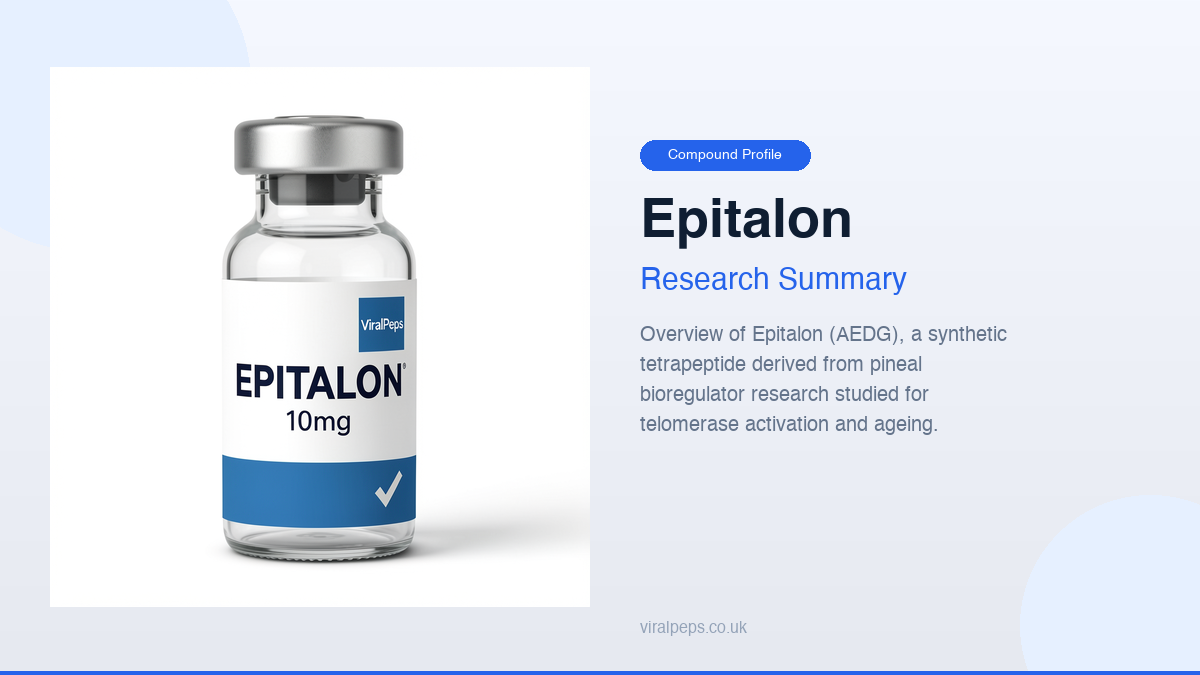
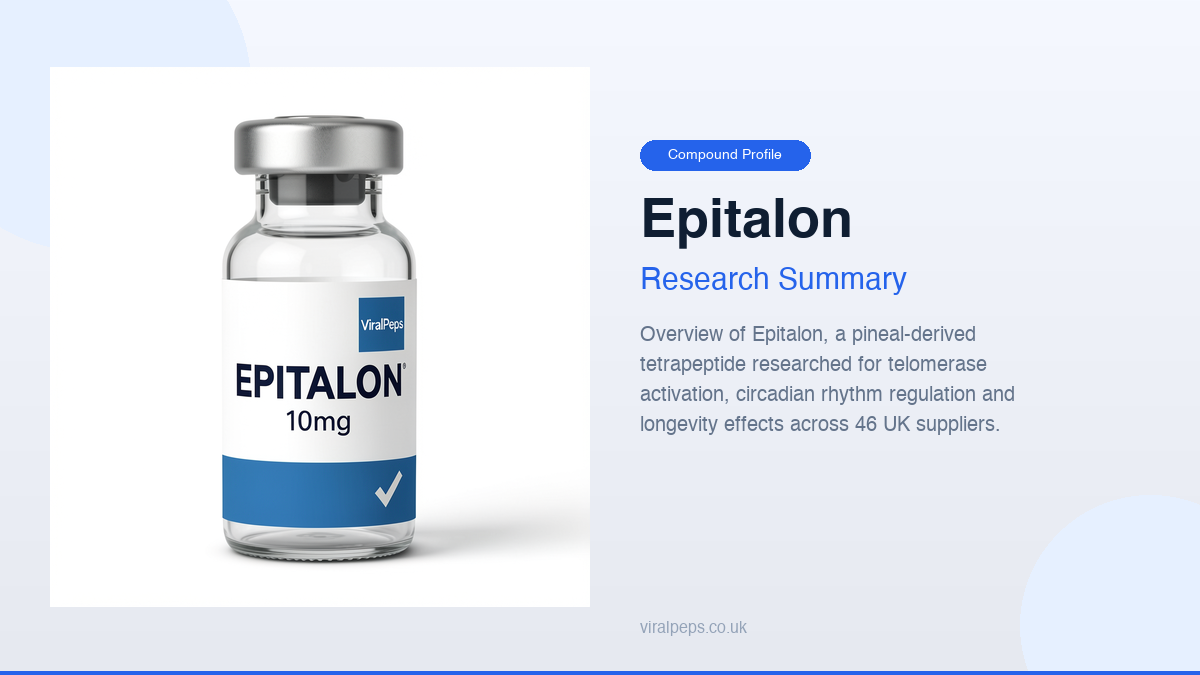
Add Epitalon research summary article + guide card

Changed region(s): [[0.5242, 0.4667, 0.8633, 0.6533]]

diff --git a/src/data/research-content.ts b/src/data/research-content.ts
@@ -7132,5 +7132,116 @@ const content: Record<string, ResearchPageContent> = {
   ]
 }
 
+,
+
+  "epitalon-research-summary": {
+  slug: "epitalon-research-summary",
+  compoundSlug: "epitalon",
+  pullQuote: "Epitalon is a four-amino-acid pineal peptide that speaks to the biological clock itself — resynchronising circadian rhythms, supporting melatonin output and, in landmark mouse studies, extending both health span and maximum lifespan.",
+  quickInfo: [
+    { label: "Peptide Name", value: "Epitalon (Epithalon)" },
+    { label: "Sequence", value: "Ala-Glu-Asp-Gly (4 amino acids)" },
+    { label: "CAS Number", value: "130268-60-9" },
+    { label: "Molecular Weight", value: "390.4 g/mol" },
+    { label: "Origin", value: "Synthetic analogue of the pineal peptide epithalamin" },
+    { label: "Primary Targets", value: "Telomerase, circadian rhythm, pineal/melatonin function, pituitary axis" },
+    { label: "Typical Research Dose", value: "1-10 mg/day, or 5-10 mg courses 2x/year" },
+    { label: "Half-Life", value: "~10 minutes" }
+  ],
+  sections: [
+    {
+      title: "What Is Epitalon?",
+      body: "Epitalon (also written epithalon) is a synthetic tetrapeptide with the amino acid sequence Ala-Glu-Asp-Gly, developed by Russian researchers in the late 1990s as a laboratory counterpart to epithalamin, a naturally occurring peptide extract from the pineal gland. Its creator, Prof. Vladimir Khavinson, framed the molecule as a way to study how the pineal gland orchestrates the timing of ageing across the whole organism. In the decades since, epitalon has become one of the best-known longevity-focused peptides in the research literature, with work spanning telomerase activation, circadian biology, melatonin and gonadotropin regulation, and exceptionally long-lived mouse models. For researchers mapping the interface between chronological age and biological clocks, [epitalon](/compounds/epitalon) is a central reference compound. [**Compare Epitalon prices from UK suppliers \u2192**](/compounds/epitalon)"
+    },
+    {
+      title: "Telomerase Activation — The Longevity Mechanism",
+      body: "Epitalon's signature mechanism is its reported ability to upregulate the TERT (telomerase reverse transcriptase) gene, lengthening telomeres and extending the replicative lifespan of cells in culture. Telomeres are the protective caps at the ends of chromosomes that shorten with every cell division; when they become critically short, cells enter senescence. By increasing telomerase expression, epitalon is proposed to delay this erosion.",
+      subsections: [
+        {
+          title: "The Cultured-Cell Evidence",
+          body: "In the Khavinson lab and follow-up work, epitalon administration was associated with a roughly 10-40% lengthening of telomeres in cultured human fetal fibroblasts compared with untreated controls, alongside an increase in the number of population doublings before senescent arrest. This positions epitalon as one of the few peptide candidates with direct data linking a pineal peptide to the telomere-telomerase axis."
+        },
+        {
+          title: "Transcription-Level Effects",
+          body: "Mechanistically, epitalon is reported to increase expression of the TERT gene at the level of transcription, rather than activating telomerase directly as a cofactor. This is relevant to whether effects observed in vitro translate in vivo, where telomerase activity in most somatic tissues is tightly repressed."
+        },
+        {
+          title: "Why It Matters for Ageing Research",
+          body: "Telomere maintenance sits at the convergence of senescence, stem-cell exhaustion and age-related disease. Epitalon's perceived value in longevity research rests on this single mechanism, so experimental verification of telomerase induction — ideally in vivo and with appropriate controls — is the key open question facing the compound."
+        }
+      ]
+    },
+    {
+      title: "Circadian Rhythm Regulation",
+      body: "Epitalon's second central role is the resynchronisation of circadian rhythms and support of pineal melatonin output. The pineal gland secretes melatonin in a daily rhythm that synchronises the body's internal clock with the light-dark cycle, and this rhythm degrades with age.",
+      subsections: [
+        {
+          title: "Melatonin & the Pineal Axis",
+          body: "Preclinical work indicates epitalon can support both nocturnal melatonin peaks and the pineal's sensitivity to signals that set the rhythm. By reinforcing the endogenous melatonin signal, epitalon is proposed to restore the timing cues that decline in ageing animals."
+        },
+        {
+          title: "Sleep-Wake Architecture",
+          body: "Because melatonin is the primary hormonal transducer of circadian time, improved pineal function is associated with more consolidated sleep-wake cycles in old animals. Researchers studying age-related sleep disturbance have used epitalon as a probe of whether pineal support can partially reverse these changes."
+        }
+      ]
+    },
+    {
+      title: "Endocrine & Pituitary Effects",
+      body: "Epitalon has been studied for its effects on the neuroendocrine axis, particularly gonadotropin regulation. At research doses it is associated with normalisation of age-related changes in pituitary hormone output, supporting the view that the pineal acts as a pacemaker for broader endocrine ageing rather than an isolated gland."
+    },
+    {
+      title: "The Landmark Lifespan Study",
+      body: "The most cited epitalon longevity result comes from a long-running mouse study in which cohorts of mice received epitalon (or placebo) from roughly the midpoint of their natural lifespan. Treated mice showed an increased maximum lifespan and, notably, a lower incidence of age-associated tumours — a reduction in cancer mortality rather than simply a delay in ageing per se.",
+      subsections: [
+        {
+          title: "What the Data Show",
+          body: "Across the reported experiments, epitalon-treated animals lived measurably longer than controls and exhibited fewer neoplasms and reproductive-tract and endocrine tumours. This combination — extended maximum lifespan plus reduced tumour burden — is the basis for epitalon being classified in the scientific literature as a geroprotector candidate."
+        },
+        {
+          title: "Key Caveats",
+          body: "The headline longevity studies originate largely from one laboratory, involve mice rather than humans, and are not uniformly replicated by independent groups. Careful readers should treat the lifespan claims as hypothesis-generating. The compound is not approved for human use by the MHRA, FDA or EMA, and its effects in humans are not established."
+        }
+      ]
+    },
+    {
+      title: "Dosing & Administration (Research Use)",
+      body: "All information below refers to laboratory research protocols only. Epitalon is not approved for human use and must not be administered outside regulated research settings. Research literature most commonly references doses in the 1-10 mg/day range, with some protocols running short 5-10 mg courses twice a year rather than daily administration. Epitalon is supplied as a lyophilised powder for reconstitution with bacteriostatic water and is typically administered by subcutaneous injection. Store the lyophilised powder at 2-8\u00b0C and always verify the Certificate of Analysis for purity and endotoxin levels before use. [**Check current Epitalon prices from UK suppliers \u2192**](/compounds/epitalon)"
+    },
+    {
+      title: "Safety & Considerations",
+      body: "Epitalon is generally regarded as well tolerated at research doses, reflecting its derivation from an endogenous pineal peptide. Reported effects are limited and mild, consistent with the compound's short plasma half-life (~10 minutes). However, because it interacts with the endocrine and melatonin axes, standard laboratory prudence applies: use only analytically verified, GMP-grade material, respect institutional biosafety and ethics approval, and be aware that the long-term human safety profile is not well characterised. Epitalon is strictly for laboratory research purposes and is not for human consumption."
+    }
+  ],
+  faq: [
+    {
+      question: "What is epitalon and where does it come from?",
+      answer: "Epitalon is a synthetic tetrapeptide (Ala-Glu-Asp-Gly) developed by Russian researchers as a laboratory analogue of epithalamin, a naturally occurring peptide extract from the pineal gland. It is studied primarily for telomerase activation, circadian rhythm regulation, melatonin support and longevity/anti-aging effects."
+    },
+    {
+      question: "How does epitalon work?",
+      answer: "Epitalon's proposed mechanisms include upregulating the TERT telomerase gene to lengthen telomeres and extend replicative lifespan, reinforcing pineal melatonin output and circadian rhythms, and modulating pituitary/gonadotropin hormone production. Its short half-life (~10 minutes) means effects are likely driven by downstream signalling rather than sustained circulating levels."
+    },
+    {
+      question: "Is epitalon proven to extend lifespan?",
+      answer: "The most cited longevity results come from long-running mouse studies by the Khavinson laboratory, showing increased maximum lifespan and reduced tumour incidence. These are not independently replicated at scale and are animal-only findings. Epitalon is not approved for human use by the MHRA, FDA or EMA, and human longevity effects are not established."
+    },
+    {
+      question: "What dose of epitalon is used in research?",
+      answer: "Research protocols most commonly reference 1-10 mg/day, sometimes structured as short 5-10 mg courses twice a year. Dosing data reflect laboratory protocols only and should not be interpreted as human guidance."
+    },
+    {
+      question: "Can I buy epitalon in the UK?",
+      answer: "Epitalon is supplied by UK research-peptide vendors for laboratory investigation only. It is listed on [ViralPeps](/compounds/epitalon) with supplier prices, but all products are research-use-only and not for human consumption. Always verify purity and certificate of analysis with the supplier."
+    }
+  ],
+  references: [
+    "Khavinson VKh. Peptides and ageing. Neuro Endocrinol Lett. 2002;23(Suppl 3):11-144.",
+    "Khavinson V, et al. Peptides and telomerase activation in cell cultures. Bull Exp Biol Med. 2003.",
+    "Khavinson VKh, Morozov VG, Anisimov VN. Experimental studies of the pineal peptide epitalon. Adv Gerontol. 2001;7:54-64.",
+    "Anisimov VN, Khavinson VKh, et al. Effect of epitalon on biomarkers of aging, life span and spontaneous tumor incidence in female SHR mice. Biogerontology. 2002.",
+    "Khavinson VKh, et al. Epithalon effect on telomere length and telomerase activity in human fibroblasts. Bull Exp Biol Med. 2003;135(6):590-592."
+  ]
+}
+
 };
 export default content;

diff --git a/src/data/research.ts b/src/data/research.ts
@@ -366,6 +366,17 @@ export const guides: ResearchArticle[] = [
     tags: ["ss-31", "elamipretide", "mitochondrial", "cardiolipin", "atp"],
   },
   {
+    title: "Epitalon Research Summary",
+    desc: "Overview of Epitalon, a pineal-derived tetrapeptide researched for telomerase activation, circadian rhythm regulation, melatonin support and longevity-focused anti-aging effects.",
+    category: "Compound Profiles",
+    section: "peptides",
+    compound: "Epitalon",
+    slug: "epitalon-research-summary",
+    image: "epitalon-research-summary",
+    minutes: 10,
+    tags: ["epitalon", "telomerase", "circadian", "melatonin", "anti-aging", "longevity"],
+  },
+  {
     title: "PT-141 vs Melanotan 2: Melanocortin Receptor Comparison",
     desc: "A detailed comparison of PT-141 (Bremelanotide) and Melanotan II (MT-II) — two melanocortin receptor agonists with shared origins but divergent pharmacology, evidence bases, and clinical trajectories.",
     category: "Articles",

diff --git a/scripts/create_guide_image.py b/scripts/create_guide_image.py
@@ -7,14 +7,14 @@ from PIL import Image, ImageDraw, ImageFont
 import os
 
 # ===================== CONFIG =====================
-COMPOUND = "Hexarelin"
-VIAL_PATH = "public/images/compounds/hexarelin-vial.png"
-OUTPUT_PATH = "public/images/guides/hexarelin-research-summary.png"
+COMPOUND = "Epitalon"
+VIAL_PATH = "public/images/compounds/epitalon-vial.png"
+OUTPUT_PATH = "public/images/guides/epitalon-research-summary.png"
 DESCRIPTION_LINES = [
-    "Overview of Hexarelin, a potent synthetic",
-    "growth hormone secretagogue developed as an",
-    "analogue of GHRP-6. Studied for GH release",
-    "and cardioprotective research across 11 suppliers.",
+    "Overview of Epitalon, a pineal-derived",
+    "tetrapeptide researched for telomerase",
+    "activation, circadian rhythm regulation and",
+    "longevity effects across 46 UK suppliers.",
 ]
 # ==================================================
 
